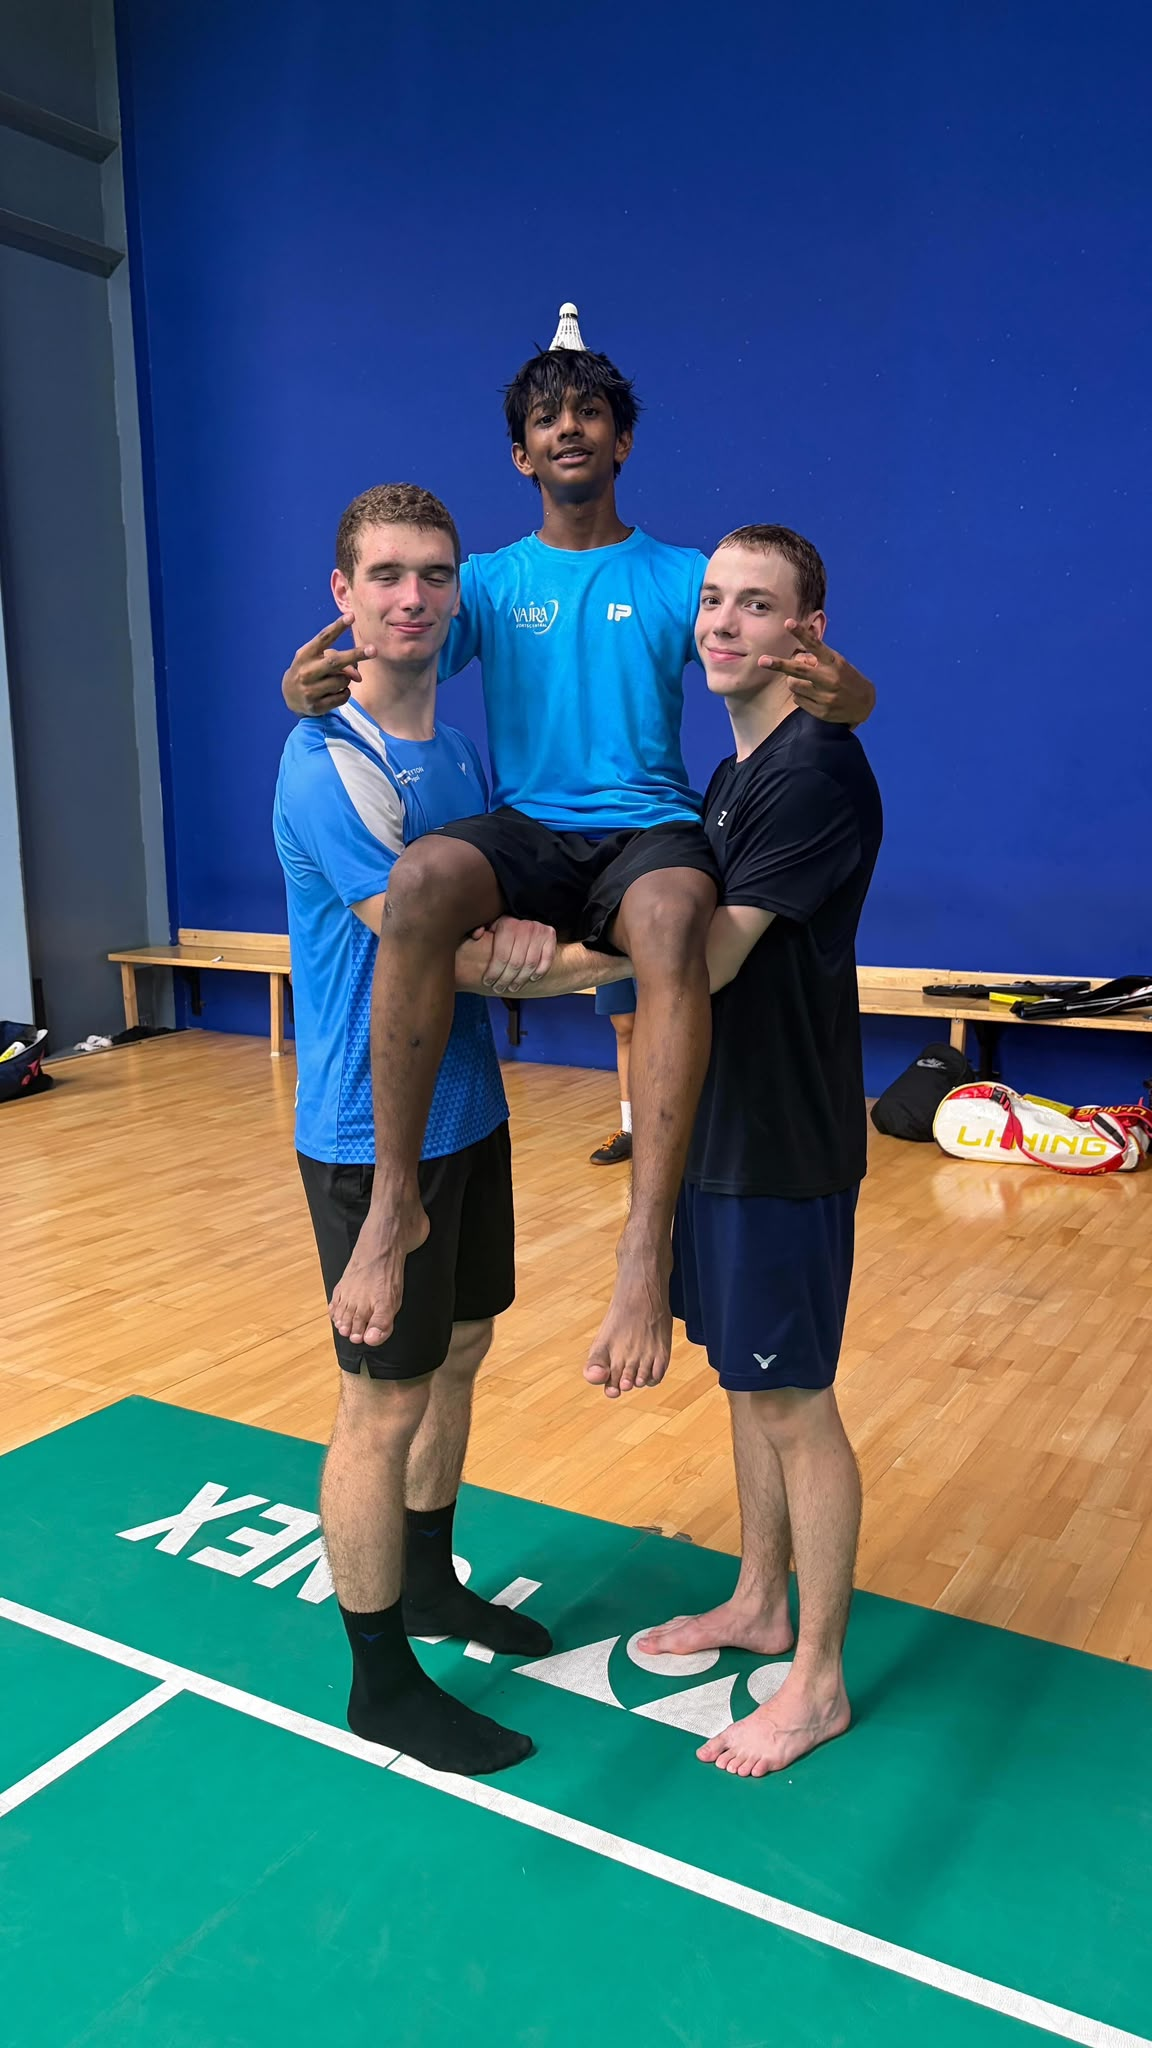
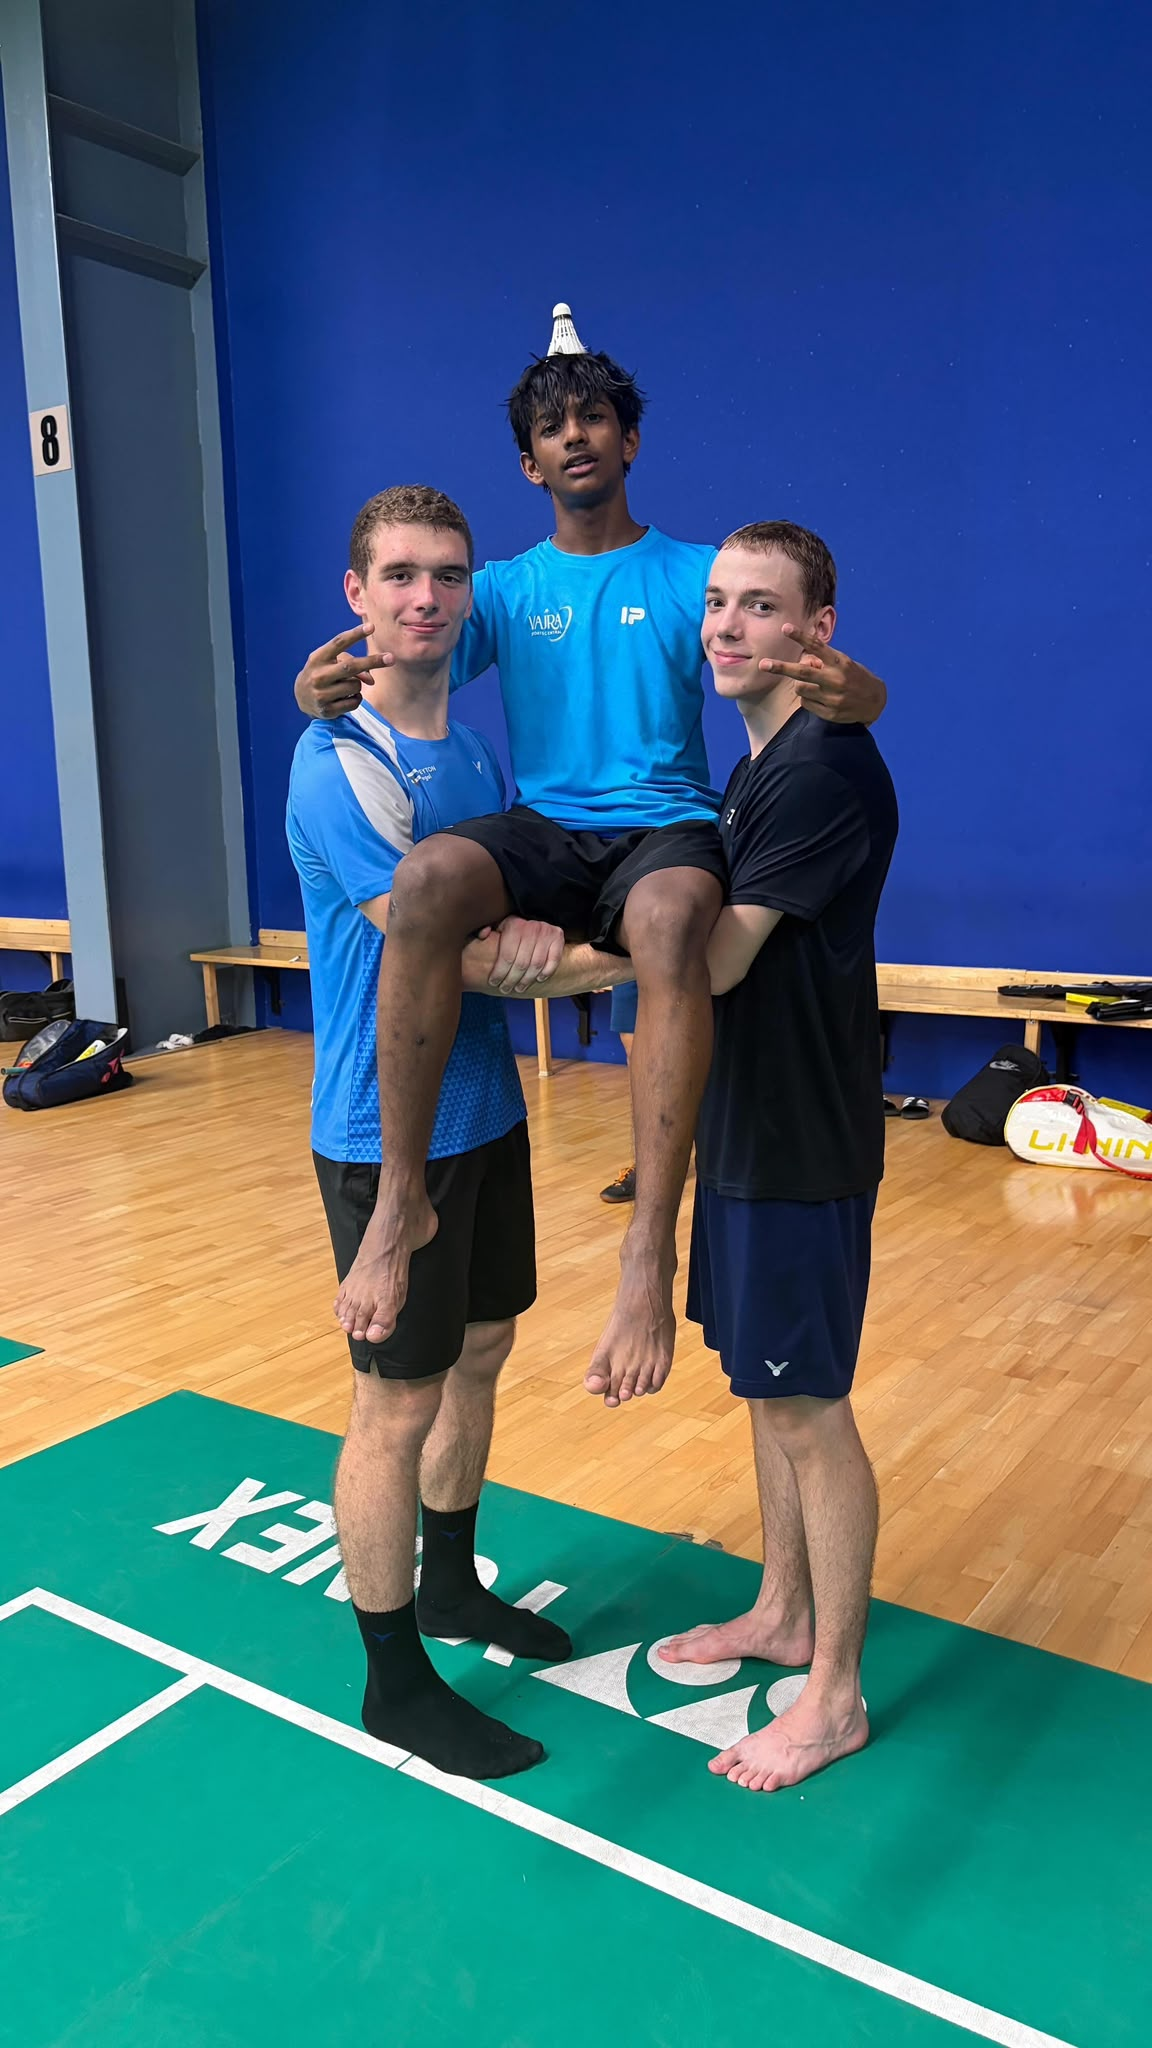
d

diff --git a/_posts/2026/training/2026-07-13-zážitky-a-kamarádi-v-Indii.md b/_posts/2026/training/2026-07-13-zážitky-a-kamarádi-v-Indii.md
@@ -7,7 +7,7 @@ reading_time: "5 min"
 author: "Jakub Klokan"
 description: "Na pět týdnů jsem se vydal do Indie trénovat po boku nejlepších hřáčů světa"
 tags: [Mezinárodní turnaje, 2026, soustředění]
-image_position: bottom left
+image_position: top
 
 h1: Indie – země lidí, zážitků a nových přátelství
 summary: Indie, která mi dala nové přátele, zkušenosti a vzpomínky na celý život
